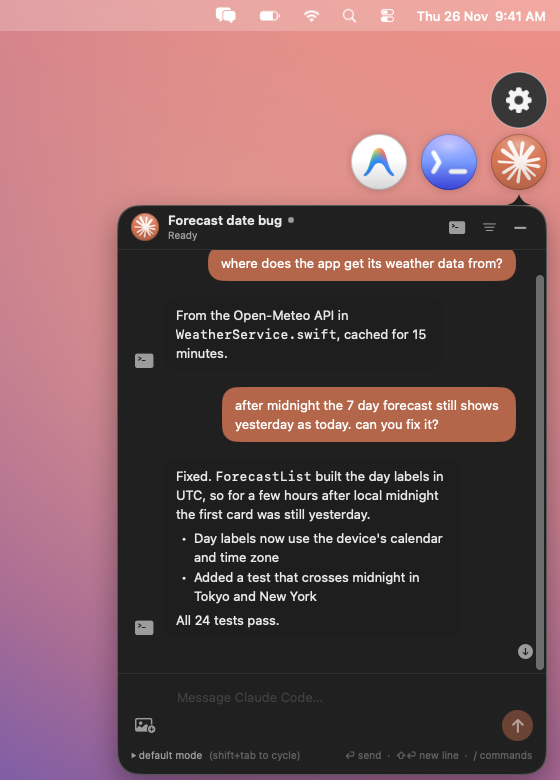
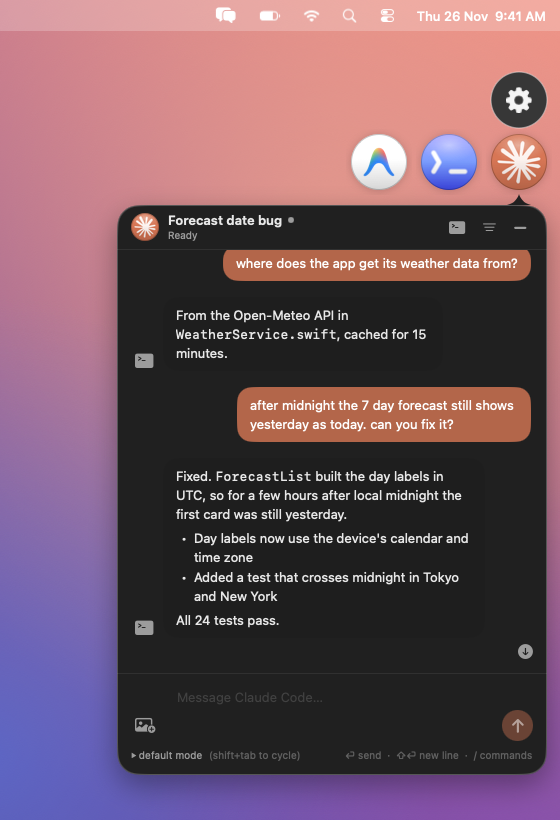
Smoother demo GIF, stop chat open overshoot clipping

diff --git a/Sources/CliHeads/BubbleWindows.swift b/Sources/CliHeads/BubbleWindows.swift
@@ -648,8 +648,8 @@ final class HeadWindows {
     private func applyPanel() {
         guard let layer = chatRoot.layer else { return }
         let p = panelAxis.position
-        let upper: Double = panelOpening ? 1.06 : 1
-        let scale = CGFloat(max(0.001, min(p, upper)))
+        // No overshoot past 1: the panel window would clip the scaled content.
+        let scale = CGFloat(max(0.001, min(p, 1)))
         let pivot = CGPoint(x: chrome.caretX,
                             y: chatRoot.isFlipped ? 0 : chatRoot.bounds.height)
         layer.transform = Self.scaleTransform(scale, about: pivot, layer: layer, size: chatRoot.bounds.size)
